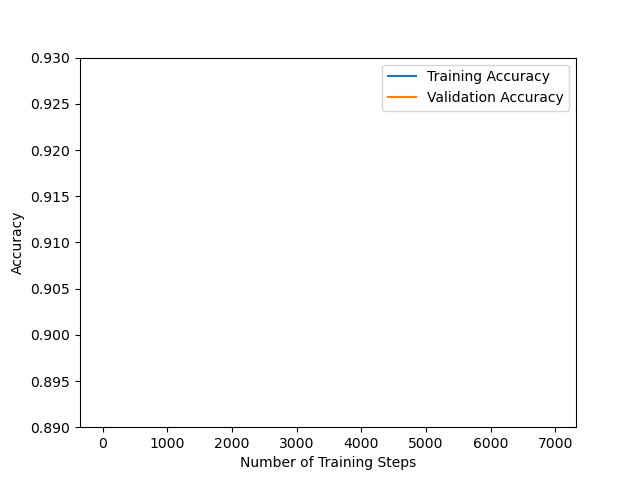
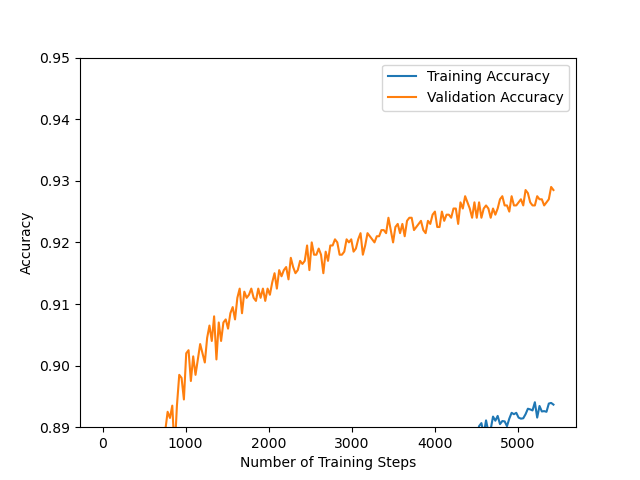
mye arbeid

diff --git a/assignment1/task4.py b/assignment1/task4.py
@@ -1,9 +1,10 @@
 import numpy as np
+from sympy import zeros
 import utils
 import matplotlib.pyplot as plt
 from task2a import pre_process_images
 from trainer import BaseTrainer
-from task3a import cross_entropy_loss, SoftmaxModel, one_hot_encode
+from task4a import cross_entropy_loss, SoftmaxModel, one_hot_encode
 np.random.seed(0)
 
 
@@ -22,7 +23,6 @@ def calculate_accuracy(X: np.ndarray, targets: np.ndarray, model: SoftmaxModel) 
     Y_hat_batch = np.around(Y_hat_batch, 0)
     accuracy = np.count_nonzero(Y_hat_batch*targets)/targets.shape[0]
     return accuracy
-
 
 
 class SoftmaxTrainer(BaseTrainer):
@@ -88,13 +88,39 @@ if __name__ == "__main__":
     # ANY PARTS OF THE CODE BELOW THIS CAN BE CHANGED.
 
     # Intialize model
-    model = SoftmaxModel(l2_reg_lambda)
+    model = SoftmaxModel(l2_reg_lambda = 0)
     # Train model
     trainer = SoftmaxTrainer(
         model, learning_rate, batch_size, shuffle_dataset,
         X_train, Y_train, X_val, Y_val,
     )
     train_history, val_history = trainer.train(num_epochs)
+
+    # Train a model with L2 regularization (task 4b)
+
+    model1 = SoftmaxModel(l2_reg_lambda = 2)
+    trainer = SoftmaxTrainer(
+        model1, learning_rate, batch_size, shuffle_dataset,
+        X_train, Y_train, X_val, Y_val,
+    )
+    train_history_reg01, val_history_reg01 = trainer.train(num_epochs)
+    # You can finish the rest of task 4 below this point.
+    weight = np.zeros((10,28,28))
+    for i in range(model.w.shape[1]):
+        a = model.w[:-1,i].reshape((28,28))
+        weight[i] = a
+    weight = np.concatenate(np.stack(weight,axis=0),axis=1)
+
+    # Plotting of softmax weights (Task 4b)
+    plt.imsave("task4b_softmax_weight.png", weight, cmap="gray")
+
+    # Plotting of accuracy for difference values of lambdas (task 4c)
+    l2_lambdas = [2, .2, .02, .002]
+    plt.savefig("task4c_l2_reg_accuracy.png")
+
+    # Task 4d - Plotting of the l2 norm for each weight
+
+    plt.savefig("task4d_l2_reg_norms.png")
 
     print("Final Train Cross Entropy Loss:",
           cross_entropy_loss(Y_train, model.forward(X_train)))
@@ -122,24 +148,3 @@ if __name__ == "__main__":
     plt.legend()
     plt.savefig("task3b_softmax_train_accuracy.png")
     plt.show()
-
-    # Train a model with L2 regularization (task 4b)
-
-    model1 = SoftmaxModel(l2_reg_lambda=2.0)
-    trainer = SoftmaxTrainer(
-        model1, learning_rate, batch_size, shuffle_dataset,
-        X_train, Y_train, X_val, Y_val,
-    )
-    train_history_reg01, val_history_reg01 = trainer.train(num_epochs)
-    # You can finish the rest of task 4 below this point.
-
-    # Plotting of softmax weights (Task 4b)
-    #plt.imsave("task4b_softmax_weight.png", weight, cmap="gray")
-
-    # Plotting of accuracy for difference values of lambdas (task 4c)
-    l2_lambdas = [2, .2, .02, .002]
-    plt.savefig("task4c_l2_reg_accuracy.png")
-
-    # Task 4d - Plotting of the l2 norm for each weight
-
-    plt.savefig("task4d_l2_reg_norms.png")

diff --git a/assignment1/trainer.py b/assignment1/trainer.py
@@ -1,5 +1,6 @@
 import numpy as np
 import utils
+from tqdm import tqdm
 
 
 class BaseTrainer:
@@ -73,10 +74,9 @@ class BaseTrainer:
         )
 
         self.num_epochs = 500
-        accuracy_val_prev = 0
         global_step = 0
-        early_stop = 0
-        for epoch in range(num_epochs):
+        min_loss = 999
+        for epoch in tqdm(range(num_epochs)):
             train_loader = utils.batch_loader(
                 self.X_train, self.Y_train, self.batch_size, shuffle=self.shuffle_dataset)
             for X_batch, Y_batch in iter(train_loader):
@@ -93,12 +93,14 @@ class BaseTrainer:
 
                     # TODO (Task 2d): Implement early stopping here.
                     # You can access the validation loss in val_history["loss"]
-                    if accuracy_val <= accuracy_val_prev:
-                        early_stop += 1
-                        if early_stop >= 10:
-                            print(epoch)
-                    else:
-                        early_stop = 0
-                    accuracy_val_prev = accuracy_val
+                    """                  
+                    if min_loss > val_loss:
+                        min_loss = val_loss
+                    if len(list(val_history["loss"].values())) >= 10:
+                        early_stop = min_loss not in list(val_history["loss"].values())[-10:]
+                        if early_stop == True:
+                            print(" Stopped after", epoch, "epochs")
+                            return train_history, val_history
+                    """
                 global_step += 1
         return train_history, val_history

diff --git a/assignment1/task4a.py b/assignment1/task4a.py
@@ -59,8 +59,8 @@ class SoftmaxModel:
             targets: labels/targets of each image of shape: [batch size, num_classes]
         """
         # TODO implement this function (Task 3a)
-        self.grad = -np.dot(X.T,(targets-outputs))/X.shape[0]
-        # To implement L2 regularization task (4b) you can get the lambda value in self.l2_reg_lambda 
+        self.grad = -np.dot(X.T,(targets-outputs))/X.shape[0] + self.l2_reg_lambda*self.w
+        # To implement L2 regularization task (4b) you can get the lambda value in self.l2_reg_lambda
         # which is defined in the constructor.
         assert targets.shape == outputs.shape,\
             f"Output shape: {outputs.shape}, targets: {targets.shape}"

diff --git a/assignment1/task2a.py b/assignment1/task2a.py
@@ -72,12 +72,12 @@ class BinaryModel:
             targets: labels/targets of each image of shape: [batch size, 1]
         """
         # TODO implement this function (Task 2a)
+        self.grad = -np.dot(X.T,(targets-outputs))/X.shape[0]
         assert targets.shape == outputs.shape,\
             f"Output shape: {outputs.shape}, targets: {targets.shape}"
-        self.grad = np.zeros_like(self.w)
+        #self.grad = np.zeros_like(self.w)
         assert self.grad.shape == self.w.shape,\
             f"Grad shape: {self.grad.shape}, w: {self.w.shape}"
-        self.grad = -np.dot(X.T,(targets-outputs))/X.shape[0]
 
     def zero_grad(self) -> None:
         self.grad = None
